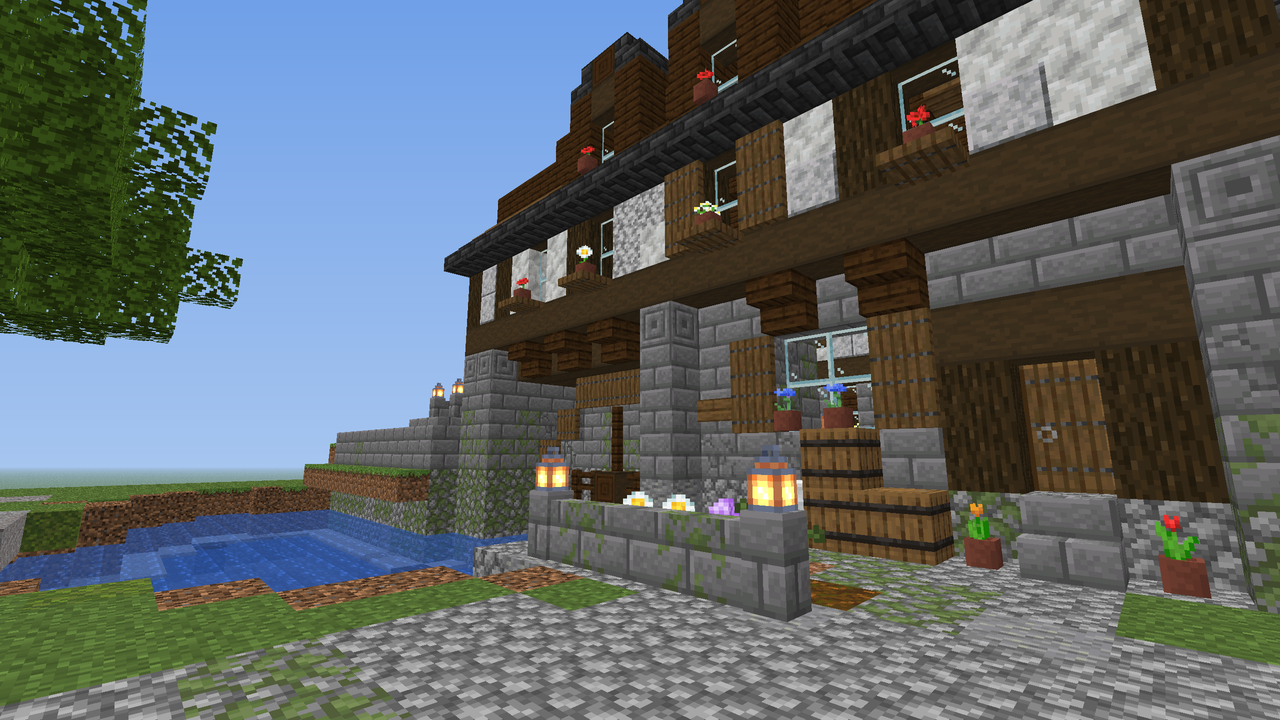
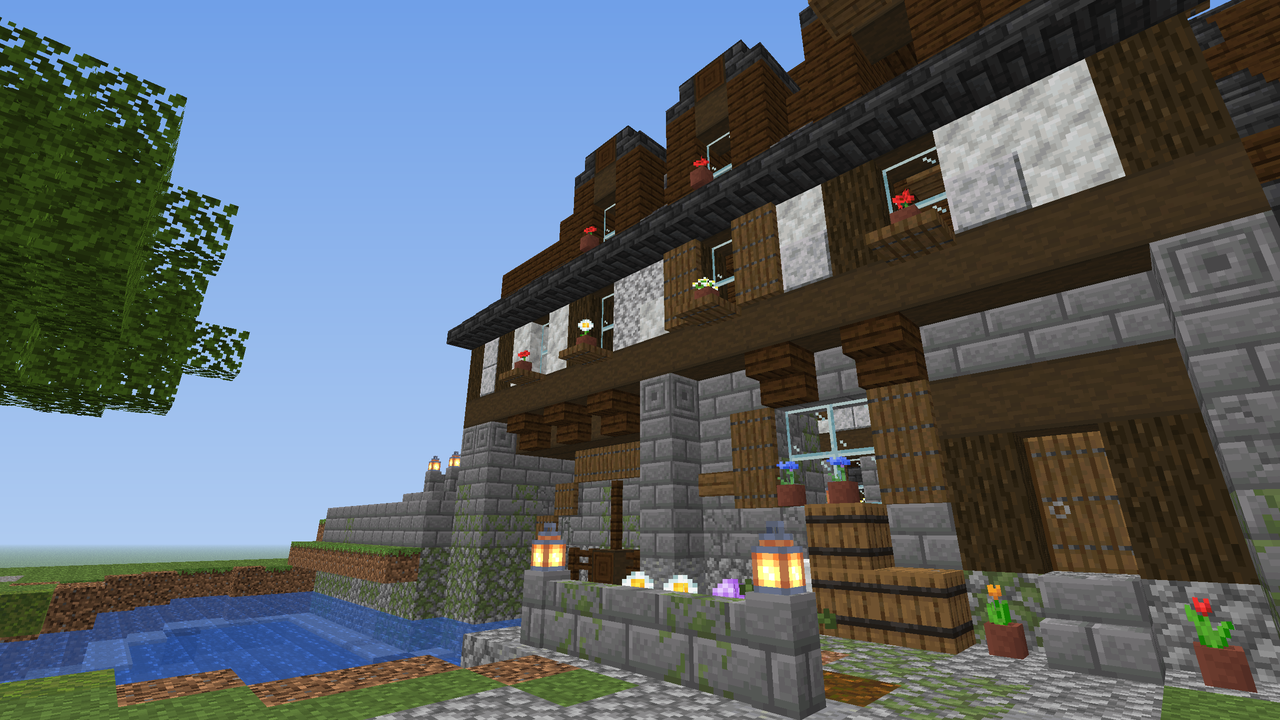
Mill: eye pitch 3, dark roof patches, refreshed spec
Viewpoint pitch 12 -> 3; no light spruce patches in the roofs (deepslate patches, dark shed roof); countryside.md Mill paragraph updated.

diff --git a/design/scripts/house_mill.py b/design/scripts/house_mill.py
@@ -42,7 +42,7 @@ STONE = Ramp(P("stone_bricks"), [(P("cracked_stone_bricks"), .13, None), (P("mos
                                  (P("tuff_bricks"), .09, None)], seed=3)
 PLINTH = Ramp(P("cobblestone"), [(P("mossy_cobblestone"), .27, "low"), (P("andesite"), .15, None)], seed=4)
 PLASTER = Ramp(P("calcite"), [(P("diorite"), .18, None), (P("polished_diorite"), .12, "low")], seed=5, height=3, y0=5)
-ROOF = Ramp("dark_oak", [("spruce", .13, None)], seed=8, height=14, y0=8)
+ROOF = Ramp("dark_oak", [("deepslate_tile", .1, None), ("cobbled_deepslate", .08, None)], seed=8, height=14, y0=8)
 FLOOR = Ramp(P("spruce_planks"), [(P("oak_planks"), .22, None), (P("dark_oak_planks"), .15, None)], seed=9)
 COBBLE = Ramp(P("cobblestone"), [(P("mossy_cobblestone"), .16, None), (P("andesite"), .14, None)], seed=31)
 GRAVEL = Ramp(P("gravel"), [(P("andesite"), .12, None)], seed=22)
@@ -56,7 +56,7 @@ RAMPS = {
     "plinth": ["cobblestone", "mossy_cobblestone", "andesite"],
     "plaster": ["calcite", "diorite", "polished_diorite"],
     "timber": ["dark_oak_log", "stripped_dark_oak_log", "dark_oak_planks"],
-    "roof": ["dark_oak_stairs", "spruce_stairs", "deepslate_tile_stairs"],
+    "roof": ["dark_oak_stairs", "cobbled_deepslate_stairs", "deepslate_tile_stairs"],
     "floor": ["spruce_planks", "oak_planks", "dark_oak_planks"],
 }
 
@@ -331,10 +331,7 @@ def rest(b: Build, roof: dict, slot: dict, pond: set) -> dict:
     for x in range(25, 32):
         put(x, 3, 27, beam("x"))
         for z, y in ((25, 5), (26, 4), (27, 3)):
-            if z == 27:
-                put(x, y + 0, z, st("dark_oak", "north"))
-            else:
-                put(x, y, z, st("spruce", "north"))
+            put(x, y, z, st("deepslate_tile" if z == 27 else "dark_oak", "north"))
     for z in (25, 26, 27):
         for x in (25, 31):
             if z != 27:

diff --git a/design/scripts/lib/place_views.py b/design/scripts/lib/place_views.py
@@ -30,7 +30,7 @@ def mill_previews(g: dict, out: Path) -> list:
         return []
     world = place_world(g, pad=6, box=(0, 0, 45, 35))
     shots = {
-        "eye": ((16.5, 1.62, 5.5), (26, 4, 15)),
+        "eye": ((16.5, 1.62, 5.5), (26, 6, 15)),
         "front": ((22, 6, -9), (24, 5, 16)),
         "ne": ((58, 18, -6), (24, 4, 16)),
         "nw": ((-12, 18, -6), (22, 4, 16)),

diff --git a/design/scripts/mill_layout.py b/design/scripts/mill_layout.py
@@ -21,7 +21,7 @@ Y_EAVE = 8
 Y_EAVE_WING = 4
 
 POINTS = {
-    "viewpoint": {"at": [16, 0, 5], "yaw": -20, "pitch": 12},
+    "viewpoint": {"at": [16, 0, 5], "yaw": -20, "pitch": 3},
     "yard": {"from": [YARD[0][0], YARD[0][1]], "to": [YARD[1][0], YARD[1][1]]},
     "hologram": [16, 1, 7],
     "panel": {"at": [20, 0, 7], "yaw": 180},

diff --git a/design/countryside.md b/design/countryside.md
@@ -57,7 +57,7 @@ L-F1 volumes, L-F2 roof forms and big planes, L-F3 yard, L-F4 clearance (wheel d
 
 ## 5. Mill (`houses/mill.yml`, generator `design/scripts/house_mill.py`, layout `mill_layout.py`)
 - **Purpose:** flour place of the Ingredient Farm. A stone watermill standing on a retaining wall straight out of its pond; the waterwheel turns in a stone slot between two piers under the jettied upper floor.
-- **File:** `size: [46, 24, 36]` = design box 46 x 20 x 36 above the ground + 4 ground layers (volume 39,744 < 40,000). **9,304 blocks written (2,837 above ground without water = building + scene, in the 1,500-3,500 range)**, 400 water blocks, 130 palette entries. Generated: do not edit the YAML by hand.
+- **File:** `size: [46, 24, 36]` = design box 46 x 20 x 36 above the ground + 4 ground layers (volume 39,744 < 40,000). **9,482 blocks written (3,045 above ground without water = building + scene, in the 1,500-3,500 range)**, 132 palette entries. Generated: do not edit the YAML by hand.
 - **Orientation:** final. Road and yard on the north edge, the pond east of the yard and in front of the wheel, the back garden south.
 - **Previews (textured, real 26.3 textures; the wheel is an item display and is **not** in the renders, only its block fallback):** `design/scripts/previews/place_mill_sheet.png`, `_eye` (player at the viewpoint), `_front`, `_ne`, `_nw`, `_back`, `_above`, `_slot` (wheel slot), `_water` (pond view), `_yard`.
 
@@ -71,20 +71,20 @@ L-F1 volumes, L-F2 roof forms and big planes, L-F3 yard, L-F4 clearance (wheel d
 | Porch strip | z 10..14: gravel path to the door at x 16..19, flower beds, crates and sacks at the door, low backdrop wall + lanterns at x 19..23, z 10 |
 | Hall | x 15..33; ground storey z 15..24 (plinth y0, stone y1..3, string course y4); upper floor z 14..24 (**jetty on the north**: bressumer y5, plaster upper y6..7, plate y8); half-hip roof east end, gable west end; ridge y15 + cap y16 |
 | Wheel slot | interior x 25..31 (7 wide), z 15..17, piers x 23..24 and 32..33, back wall z 18, floor y -4, beam lintel y4, pilasters at z 14 (x 15, 24, 32, 33) carry the jetty; pit water y -3..-2 |
-| Pond A | x 23..44, z 4..14 (20+ x 11), water y -3..-2, tail race leaves through the east edge at z 8..9 (water exits `x 45`) |
+| Pond A | one broad organic pond (noisy ellipse + the strip against the hall wall), about x 23..44, z 3..14 (z <= 12 east of x 34), water y -3..-2, mud/clay/moss shore, lily pads; the tail race leaves through the east edge at z 8..9 (water exits `x 45`) |
 | Wing (store) | x 8..14, z 15..23, in line with the hall, abuts its west gable; ridge y10 |
 | Sack shed | lean-to x 25..31, z 25..27 on the south wall, barrels and sacks |
-| Terrace + head race | terrace surface y 1 for x 35..45, z 13..30 behind a stone retaining wall (z 13) to the pond; channel x 33..39 z 16..17 (water y 0) from a stone-lined mill pond (x 40..44, z 16..22) through the east pier into the slot (gate: trapdoors + bars at x 32), sluice gate with lever at x 34; **fenced stone bridge** x 37..39, z 14..19 (deck y 2) |
+| Terrace + head race | terrace surface y 1 for x 35..45, z 13..30 behind a stone retaining wall (z 13) to the pond; a stone-lined channel x 33..44, z 16..17 (water y 0) runs from the east wall through the east pier into the slot (gate: trapdoors + bars at x 32, sluice gate with lever at x 34); **fenced stone bridge** x 37..39, z 14..19 (deck y 2); orchard on the terrace |
 | Granary | staddle stones, 7 x 7 at x 2..8, z 4..10, floor y2, walls y3..4, pyramid roof ridge y9 + cap y10, door + stone steps on the east face (towards the yard), shuttered lit windows |
-| Scenery | oak, birch and oak trees, hedges south, back garden (farmland, water channel) at x 9..15 z 28..32, woodpile, bench, sack cart west of the yard |
+| Scenery | meadow clusters, trees (one with vines over the pond), hedge segments at the south and west edge, back garden (farmland, water channel) at x 9..15 z 28..32, woodpile, bench, sack cart west of the yard |
 
 ### Look (factory craft, scaled)
-Stone ground storey in a stone-brick ramp on a cobble/mossy plinth, jettied plastered upper floor in a dark-oak frame (posts every 4, braces, flower-boxed shuttered lit windows), brackets under the bressumer, **steep (about 56 degrees) dark-oak shingle roof** with spruce patches, **deepslate-tile eave and rake** and a dark-oak ridge with a slab cap, **half-hip** east end, **two oak dormers** and the **hoist gablet** (open hatch, beam, chain and barrel) on the north slope plus one dormer on the south slope, roofs at 8 heights (3, 4, 5, 8, 10, 11, 12, 16). One chimney budget unused (**no chimney**, `smoke` omitted).
+Stone ground storey in a stone-brick ramp on a cobble/mossy plinth, jettied plastered upper floor in a dark-oak frame (posts every 4, braces, flower-boxed shuttered lit windows), brackets under the bressumer, **steep (about 56 degrees) dark-oak shingle roof** with dark deepslate patches only (no light blocks), **deepslate-tile eave and rake** and a dark-oak ridge with a slab cap, **half-hip** east end, **two dark-oak dormers** and the **hoist gablet** (open hatch, beam, chain and barrel) on the north slope plus one dormer on the south slope, roofs at 8 heights (3, 4, 5, 8, 10, 11, 12, 16). One chimney budget unused (**no chimney**, `smoke` omitted).
 
 ### Points (design cells)
 | Point | Value |
 |---|---|
-| `viewpoint` | `at [16, 0, 5]`, yaw -20, pitch 12 (the north edge of the yard, looking south-east at the front, the wheel and the pond) |
+| `viewpoint` | `at [16, 0, 5]`, yaw -20, pitch 3 (the north edge of the yard, looking south-east at the front, the wheel and the pond) |
 | `yard` | `from [11, 3]`, `to [21, 9]` |
 | `hologram` | `[16, 1, 7]` (yard centre) |
 | `panel` | `at [20, 0, 7]`, yaw 180 |
